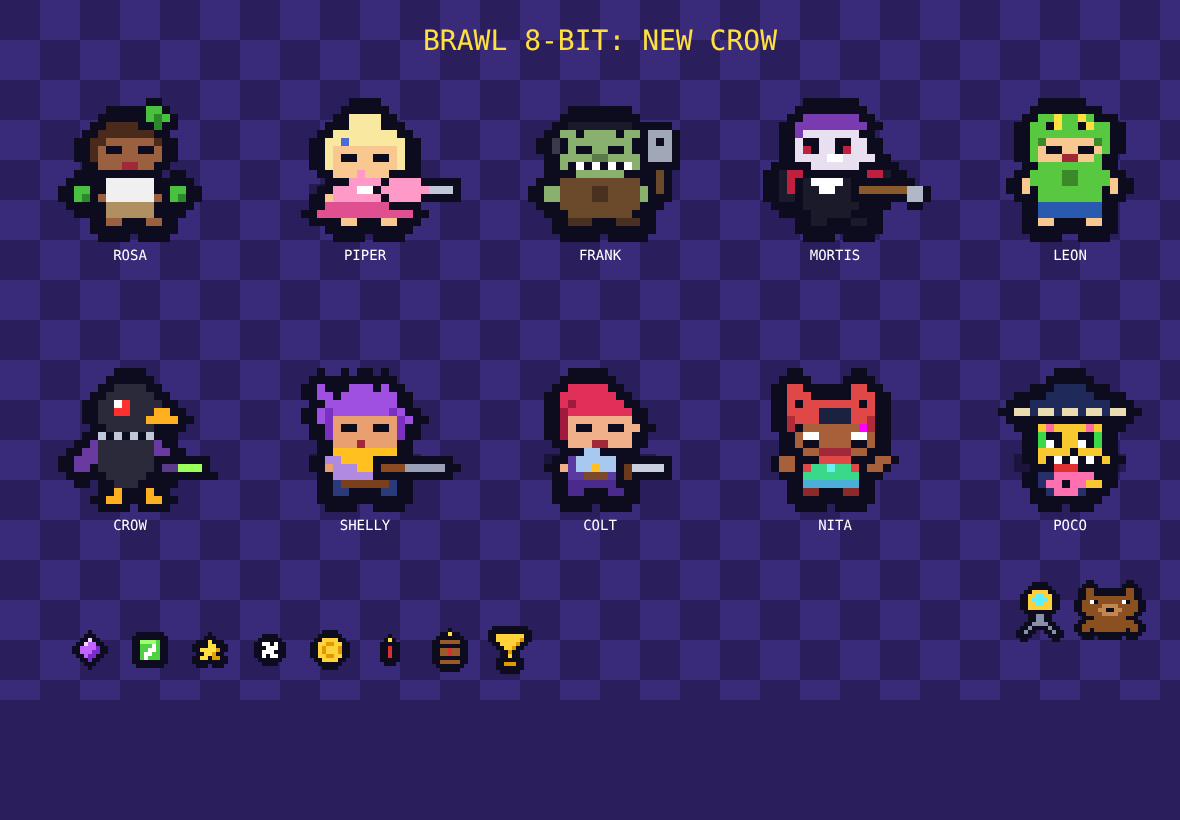
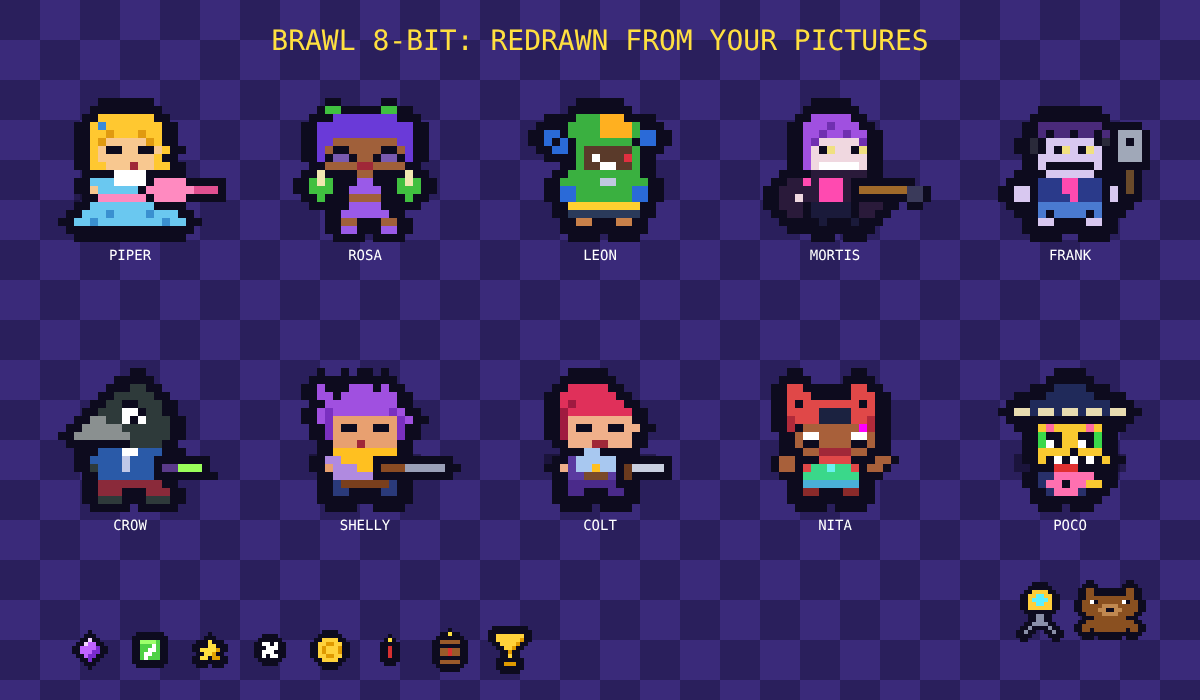
Brawl 8-Bit: redraw Piper, Rosa, Leon, Mortis, Frank and Crow from reference art
Claude-Session: https://claude.ai/code/session_01FdRq2KxaynozDRfyymzMuF

diff --git a/Brawl8Bit.html b/Brawl8Bit.html
@@ -1394,108 +1394,108 @@ const SPR = {
   skull: { pal: {}, rows: ['.kkkkk.', 'kwwwwwk', 'kwkwkwk', 'kwkwkwk', 'kwwkwwk', '.kwwwk.', '.kwkwk.', '..kkk..'] },
   box: { pal: { p: '#b45bff', P: '#7a2bd0', y: '#ffd23a' }, rows: ['.kkkkkkkkk.', 'kpppkykpppk', 'kpppkykpppk', 'kkkkkkkkkkk', 'kPPPkykPPPk', 'kPPPkykPPPk', 'kPPPkykPPPk', 'kPPPkykPPPk', 'kkkkkkkkkkk'] },
   safe: { pal: { a: '#c9cfe0', A: '#8a91aa', t: '#2f9bff' }, rows: null },
-  leon: { pal: { h: '#58c840', H: '#3a8a2a', y: '#ffe040', b: '#2a5ab0', s: '#f8c890' }, weapon: null, rows: [
-    '....kkkkkk......',
-    '...khhyhhyhk....',
-    '..khhkyhhkyhhk..',
-    '..khhhhhhhhhhk..',
-    '..khHssssssHhk..',
-    '..khskksskkshk..',
-    '..khsssmmsshk...',
-    '...khhhhhhhhk...',
-    '..khhhhHHhhhhk..',
-    '.kshhhhHHhhhhsk.',
-    '.kskhhhhhhhhksk.',
-    '..kkhhhhhhhhkk..',
-    '...kbbbbbbbbk...',
-    '...kbbbbbbbbk...',
-    '...kssk..kssk...',
-    '...kkkk..kkkk...'] },
-  crow: { pal: { K: '#2a2a3a', P: '#6a3aa0', y: '#ffb020', r: '#ff3030', g: '#c0c8d8', w: '#ffffff' }, weapon: 'dagger', rows: [
-    '......kkkk......',
-    '.....kKKKKk.....',
-    '....kKKKKKKk....',
-    '...kKKwrKKKKk...',
-    '...kKKrrKKKyyk..',
-    '...kKKKKKKyyyyk.',
-    '....kKKKKKKkkk..',
-    '...kgkgkgkgk....',
-    '..kPKKKKKKKPk...',
-    '.kPPKKKKKKKPPk..',
-    'kPPPKKKKKKKPPPk.',
-    'kPPkKKKKKKKkPPk.',
-    '.kk.kKKKKKk.kk..',
-    '.....kKKKk......',
-    '.....kyk.kyk....',
-    '....kyyk.kyyk...'] },
-  mortis: { pal: { p: '#7a3ab0', s: '#e8e0f0', r: '#c02040', K: '#1a1a2a', w: '#ffffff' }, weapon: 'shovel', rows: [
-    '....kkkkkkk.....',
-    '...kpppppppk....',
-    '..kpppppppppk...',
-    '..kpsssssssk....',
-    '..kskksskkssk...',
-    '..ksrksskrssk...',
-    '..ksssswwssssk..',
-    '.kkkksssssskkkk.',
-    'kKrrkkkkkkkkrrKk',
-    'kKrkKwwwwKKkrKk.',
-    'kKrkKKwwKKKkrKk.',
-    'kKKkKKKKKKKkKKk.',
-    '.kkkKKKKKKKkkk..',
-    '....kKKKKKk.....',
-    '....kKKk.kKKk...',
-    '....kkkk.kkkk...'] },
-  piper: { pal: { y: '#f8e8a0', p: '#ff9ac8', P: '#e05090', b: '#4a6ad8', s: '#f8c890' }, weapon: 'umbrella', rows: [
-    '......kkkk......',
-    '.....kyyyyk.....',
-    '....kkyyyykk....',
-    '...kyyyyyyyyk...',
-    '..kyybyyyyyyyk..',
-    '..kyssssssssyk..',
-    '..kyskksskksyk..',
-    '..kyssssssssyk..',
-    '...kssspsssk....',
-    '....kkppppkk....',
-    '...kpppwwpppk...',
-    '..kspppppppppsk.',
-    '..kPPPPPPPPPPk..',
-    '.kPPPPPPPPPPPPk.',
+  leon: { pal: { h: '#3ab040', o: '#ffb020', b: '#2a6ad8', d: '#5a3a2a', r: '#e03040', n: '#2a3a5a', s: '#c8804a', y: '#ffd030', g: '#c0c8e0' }, weapon: null, rows: [
+    '.....kkkkkk.....',
+    '....khhhoook....',
+    '.kkkhhhhoooohkk.',
+    'kbbkhhhhoooohbbk',
+    'kbkbkhhhhhhhkbbk',
+    '.kbbkhddddddhkk.',
+    '....khdwdddrhk..',
+    '....khddwwddhk..',
+    '...khhhhhhhhhk..',
+    '..khhhhhgghhhhk.',
+    '..kbbhhhhhhhbbk.',
+    '..kbbhhhhhhhbbk.',
+    '...kyyyyyyyyyk..',
+    '...knnnnnnnnnk..',
     '....kssk.kssk...',
     '....kkkk.kkkk...'] },
-  frank: { pal: { G: '#8ab070', g: '#5a7a4a', n: '#6a4a2a', N: '#4a3020', y: '#c0c0d0', K: '#1a1a2a', d: '#3a3a4a' }, weapon: 'hammer', rows: [
+  crow: { pal: { K: '#2e3a3a', G: '#8a9090', B: '#2a5aa8', r: '#8a2a3a', c: '#c0c8e8' }, weapon: 'dagger', rows: [
+    '........kk......',
+    '......kkKKk.....',
+    '.....kKKKKKk....',
+    '....kKKkkKKKk...',
+    '...kKKKwwkKKk...',
+    '..kGGKKwkwKKKk..',
+    '.kGGGGGKKKKKKk..',
+    'kGGGGGGGKKKKKk..',
+    '.kkkkkkkKKKKk...',
+    '...kBBBwwBBBk...',
+    '..kBBBBcBBBBBkk.',
+    '..kKBBBcBBBBBKk.',
+    '...kBBBBBBBBk...',
+    '...krrrrrrrrk...',
+    '...krrrk.krrrk..',
+    '...kKKKk.kKKKk..'] },
+  mortis: { pal: { p: '#a050e0', P: '#7030b0', s: '#f0d8e0', y: '#f0e080', K: '#2a1a3a', m: '#ff4ab0', n: '#1a1a3a', w: '#ffffff' }, weapon: 'shovel', rows: [
+    '.....kkkkk......',
+    '....kpppppk.....',
+    '...kpppPpppk....',
+    '...kppPppPppk...',
+    '...kpPsssssPk...',
+    '...kpskysskyk...',
+    '...kpsssssssk...',
+    '...kpswwwwwsk...',
+    '...kkKKKKKKKk...',
+    '.kKKmKmmmKmKKk..',
+    'kKKKKKmmmKKKKKk.',
+    'kKKsKKmmmKKsKKk.',
+    'kKKKknnnnnkKKKk.',
+    '.kKKknnnnnkKKk..',
+    '..kk.knk.knk....',
+    '.....kkk.kkk....'] },
+  piper: { pal: { y: '#ffc830', Y: '#e09a10', s: '#f8c890', b: '#6ac8f0', B: '#3a90d0', p: '#ff8ac0', f: '#3a8ad8' }, weapon: 'umbrella', rows: [
+    '....kkkkkkk.....',
+    '...kyyyyyyyk....',
+    '..kyfyyyyyyyk...',
+    '..kyyYyyyYyyk...',
+    '..kyYsssssYyk...',
+    '..kyskksskksyk..',
+    '..kysssssssyk...',
+    '..kyysssmssyyk..',
+    '...kkkwwwwkkk...',
+    '..kbbbwwwwbbbk..',
+    '..ksbbbbbbbbsk..',
+    '...kppppppppk...',
+    '..kbbbbbbbbbbk..',
+    '.kbbbBbbbbBbbbk.',
+    'kbbBbbbbbbbbBbbk',
+    '.kkkkkkkkkkkkkk.'] },
+  frank: { pal: { L: '#d8c8f0', H: '#4a2a7a', d: '#2a2a3a', y: '#f0e080', v: '#2a3a8a', m: '#ff4ab0', b: '#4a7ad0' }, weapon: 'hammer', rows: [
     '................',
     '....kkkkkkkk....',
-    '...kKKKKKKKKk...',
-    '..kGGkGGGGkGGk..',
-    '.kdkGGGGGGGGkdk.',
-    '.kdkGkkGGkkGkdk.',
-    '..kGGGGggGGGGk..',
-    '..kGkwkwkwkwGk..',
-    '...kkGGGGGGkk...',
-    '.kknnnnnnnnnnkk.',
-    'kGGnnnnNNnnnnGGk',
-    'kGGnnnnNNnnnnGGk',
-    '.kknnnnnnnnnnkk.',
-    '...knnnnnnnnk...',
-    '...kNNNk.kNNNk..',
-    '...kkkkk.kkkkk..'] },
-  rosa: { pal: { g: '#4ac040', G: '#2a8a2a', H: '#4a2a1a', D: '#9a6040', w: '#f0f0f0', n: '#b09060' }, weapon: null, rows: [
-    '..........gg....',
-    '.....kkkk.gGg...',
-    '....kHHHHkkGk...',
-    '...kHHHHHHHk....',
-    '..kHHDDDDDDHk...',
-    '..kHDkkDDkkDk...',
-    '..kHDDDDDDDDk...',
-    '...kDDDmmDDk....',
-    '....kkkkkkk.....',
-    '.kk.kwwwwwwk.kk.',
-    'kggkkwwwwwwkkggk',
-    'kgGkDwwwwwwDkgGk',
-    '.kk.knnnnnnk.kk.',
-    '....knnnnnnk....',
+    '...kHHHHHHHHk...',
+    '...kHkHHkHHkHk..',
+    '..kdkLLLLLLkdk..',
+    '..kdkLkyLkyLkdk.',
+    '...kLLLLLLLLk...',
+    '...kLkkkkkkLk...',
+    '...kkLLLLLLkk...',
+    '.kkkvvvmmvvvkkk.',
+    'kLLkvvvmmvvvkLLk',
+    'kLLkvvvvmvvvkLLk',
+    '.kkkbbbbbbbbkkk.',
+    '...kbkbbbbkbk...',
+    '...kLLk..kLLk...',
+    '...kkkk..kkkk...'] },
+  rosa: { pal: { g: '#40c040', P: '#6a3ad8', p: '#9a5ae8', D: '#a0603a', c: '#f0e8b0', l: '#7a5ab0' }, weapon: null, rows: [
+    '...gg.....gg....',
+    '..kkPPPPPPPPkk..',
+    '.kPPPPPPPPPPPPk.',
+    '.kPPPPPPPPPPPPk.',
+    '.kPPDDDDDDDDPPk.',
+    '.kPDkkDDDDkkDPk.',
+    '.kPkllkDDkllkPk.',
+    '..kDDDDmmDDDDk..',
+    '.kckk.kDDk.kkck.',
+    'kgcgk.kppk.kgcgk',
+    'kgggkkppppkkgggk',
+    '.kgk.kDDDDk.kgk.',
+    '.....kppppk.....',
+    '....kppppppk....',
     '....kDDk.kDDk...',
-    '....kkkk.kkkk...'] },
+    '....kppk.kppk...'] },
   robot: { pal: { g: '#8a90a8', r: '#ff3030', y: '#ffd23a' }, weapon: null, rows: [
     '....kkkkkkkk....',
     '...kggggggggk...',
@@ -1528,8 +1528,8 @@ const WEAPONS = {
   double: { pal: { n: '#8a4a23', g: '#6a7088' }, rows: ['kkkkkkkkkk', 'knnggggggk', 'knnggggggk', 'kkkkkkkkkk'], ox: 11, oy: 9 },
   blaster: { pal: { y: '#ffcf3a', c: '#5ef0ff' }, rows: ['kkkkkkkk.', 'kyyyyyyck', 'kyykkkkk.', 'kkk......'], ox: 10, oy: 10 },
   launcher: { pal: { g: '#b0b8c8', r: '#c02040' }, rows: ['kkkkkkk', 'kgrgrgk', 'kgggggk', 'kgrgrgk', 'kkkkkkk'], ox: 10, oy: 1 },
-  shovel: { pal: { n: '#8a5a2a', g: '#b0b8c8' }, rows: ['kkkkkkkk..', 'knnnnnnggk', 'kkkkkkkggk', '.......kk.'], ox: 10, oy: 9 },
-  umbrella: { pal: { p: '#ff9ac8', n: '#6a3a1e', g: '#c0c8d8' }, rows: ['..kkkk.....', '.kppppkkkkk', 'kppppppgggk', '.kppppkkkkk', '..kkkk.....'], ox: 9, oy: 8 },
+  shovel: { pal: { n: '#a06a2a', g: '#3a3a5a' }, rows: ['kkkkkkkk..', 'knnnnnnggk', 'kkkkkkkggk', '.......kk.'], ox: 10, oy: 9 },
+  umbrella: { pal: { p: '#ff8ac0', n: '#8a4a23', g: '#e05090' }, rows: ['..kkkk.....', '.kppppkkkkk', 'kppppppgggk', '.kppppkkkkk', '..kkkk.....'], ox: 9, oy: 8 },
   hammer: { pal: { g: '#a0a8b8', n: '#6a4a2a' }, rows: ['.kkk.', 'kgggk', 'kgkgk', 'kgggk', 'kgggk', 'kkkkk', '.knk.', '.knk.', '.knk.', '.kkk.'], ox: 13, oy: 2 },
   dagger: { pal: { g: '#9aff5a', n: '#5a3a8a' }, rows: ['kkkkkkk.', 'knngggk.', 'kkkkkkkk'], ox: 11, oy: 10 },
   dynamite: { pal: { r: '#d83030', y: '#ffe040' }, rows: ['.y.', 'kkk', 'krk', 'krk', 'kkk'], ox: 12, oy: 9 },
